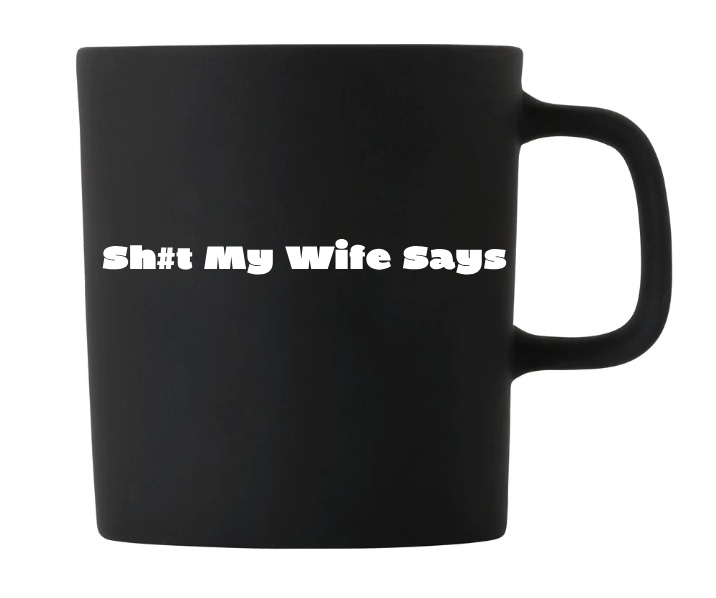
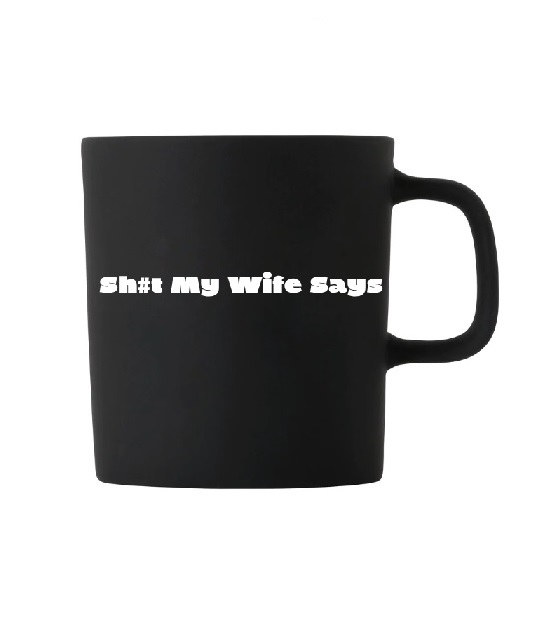
home image height to auto and altered mug image to stop it stretching out of proportion

Changed region(s): [[0.0886, 0.0602, 0.9446, 0.9331]]

diff --git a/Stuff_My_Wife_Says/static/css/styles.css b/Stuff_My_Wife_Says/static/css/styles.css
@@ -181,7 +181,7 @@ label {
 
 .image-links img {
     width: 300px;
-    height: 340px;
+    height: auto;
     border: 2px solid black;
     border-radius: 10px;
     box-shadow: 0 5px 15px rgba(0, 0, 0, 0.3);
